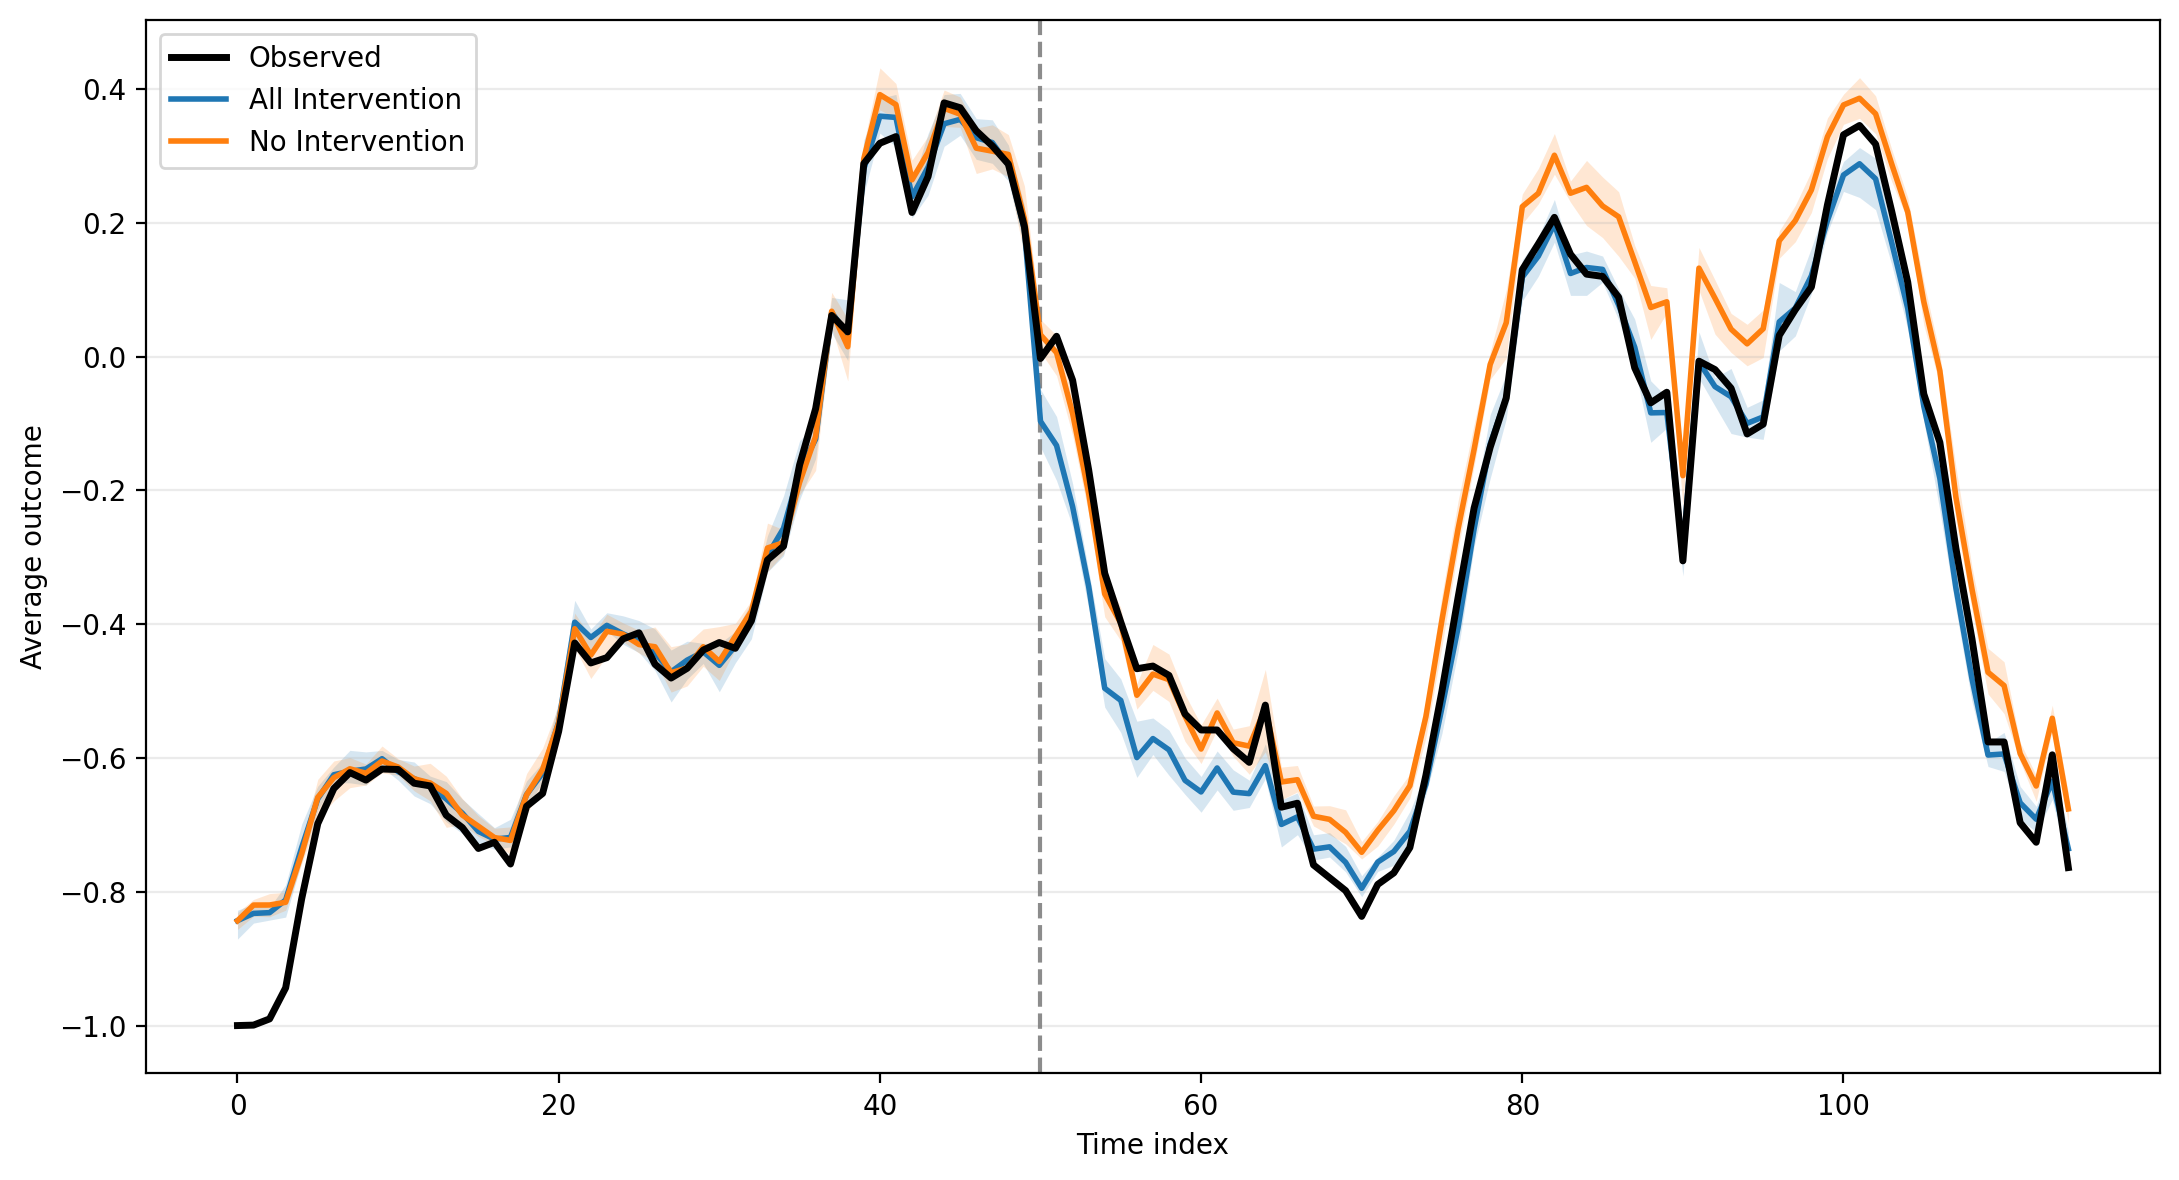
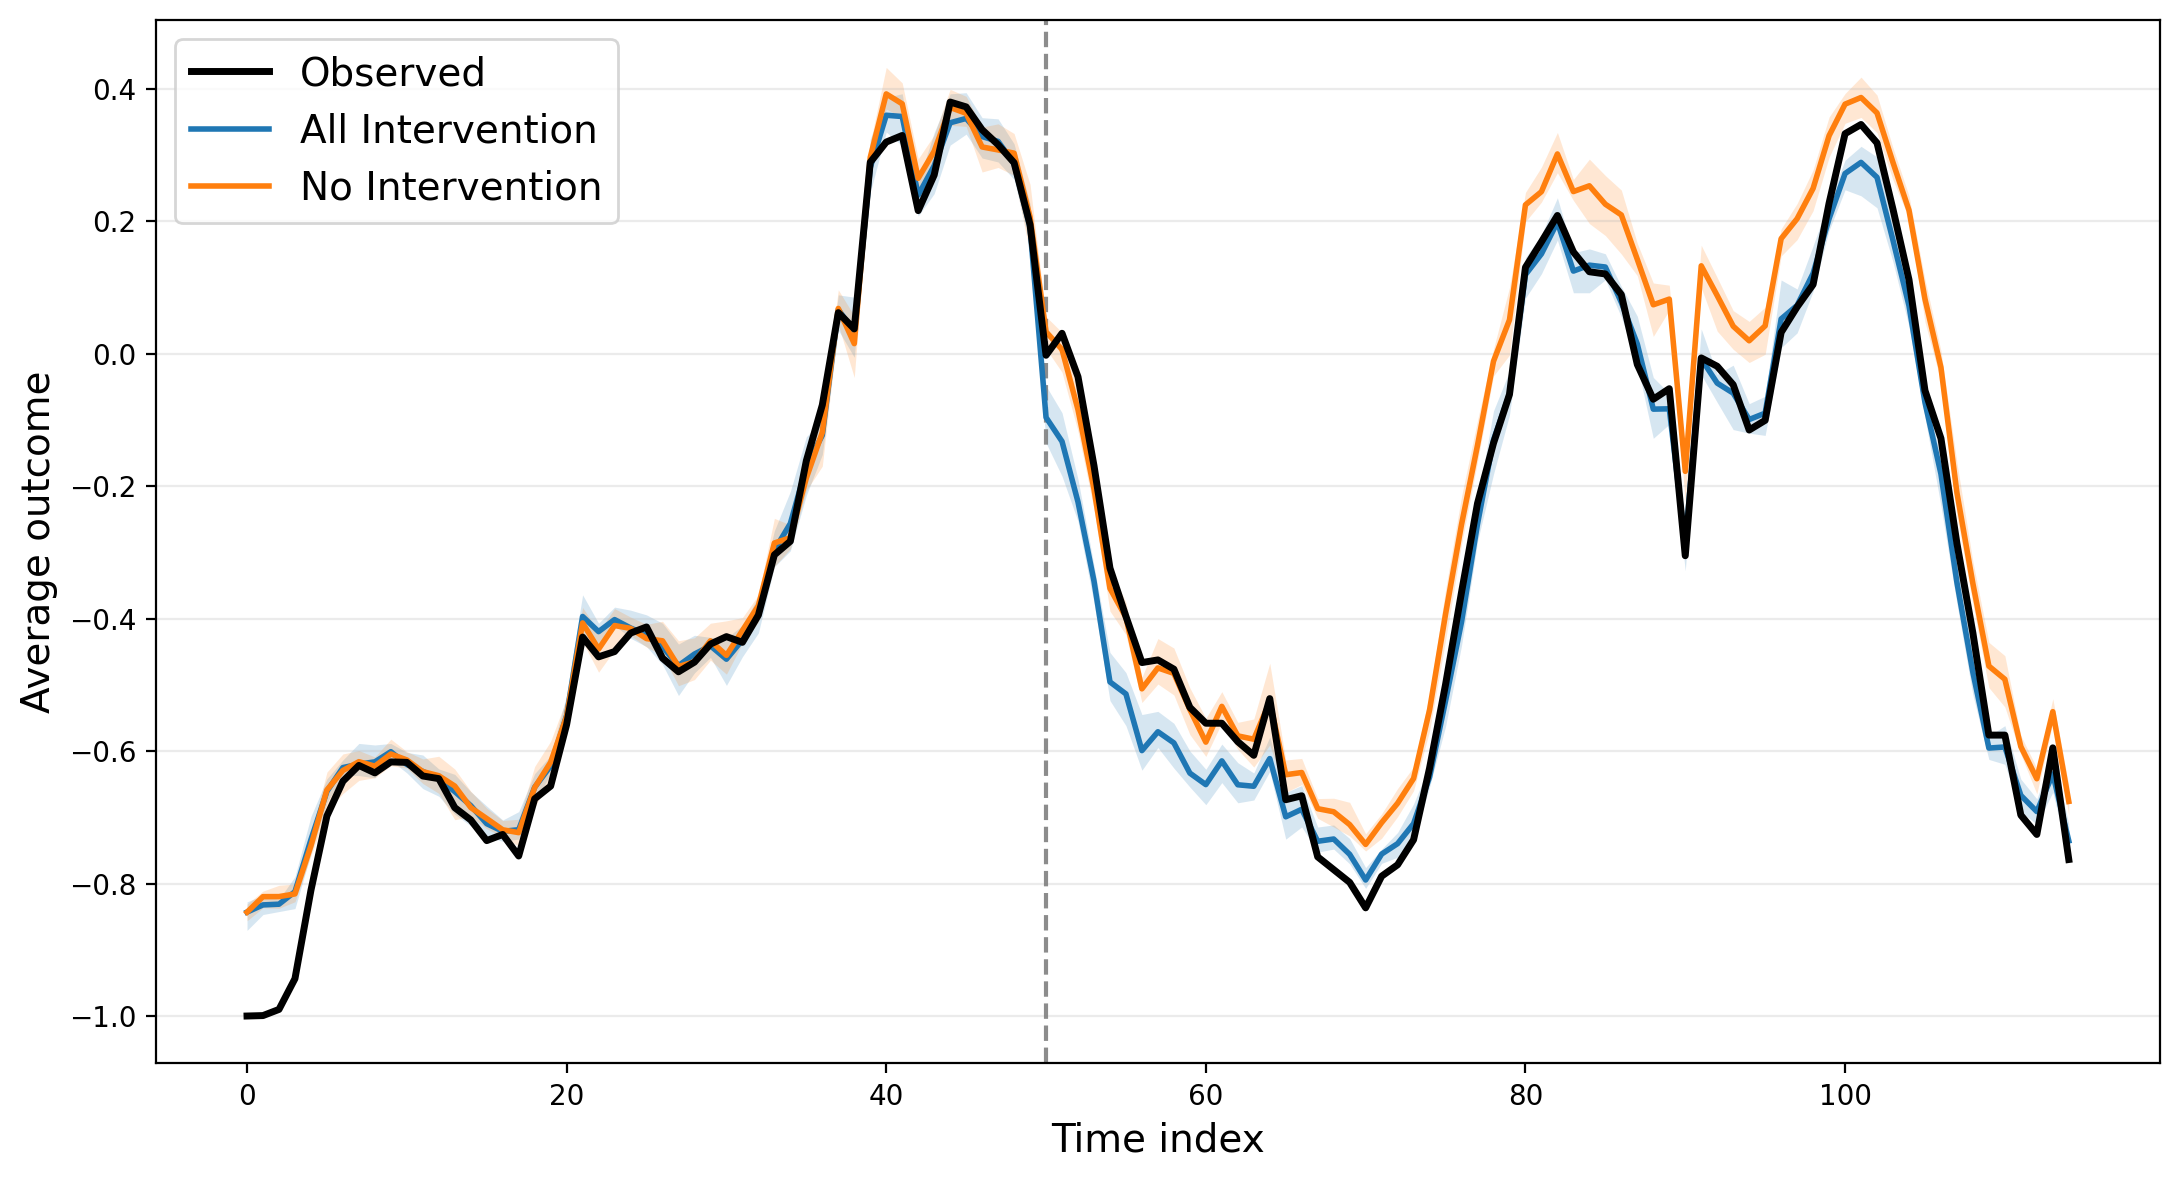
Larger fonts in ploits

diff --git a/utils/t8_posterior_predictive_plotting.py b/utils/t8_posterior_predictive_plotting.py
@@ -31,6 +31,7 @@ _ALL_INTERVENTION_COLOR = "#1f77b4"
 _NO_INTERVENTION_COLOR = "#ff7f0e"
 _FALLBACK_COLORS = list(plt.get_cmap("tab10").colors)
 _LEGEND_FONT_SIZE = 14
+_AXIS_LABEL_FONT_SIZE = 14
 
 
 def _summary_rows(csv_path: str | Path, *, kind: str) -> list[dict[str, str]]:
@@ -187,8 +188,8 @@ def _finalize_axis(
             linewidth=1.5,
             alpha=0.9,
         )
-    ax.set_xlabel(x_label)
-    ax.set_ylabel(y_label)
+    ax.set_xlabel(x_label, fontsize=_AXIS_LABEL_FONT_SIZE)
+    ax.set_ylabel(y_label, fontsize=_AXIS_LABEL_FONT_SIZE)
     ax.set_title("")
     ax.grid(axis="y", alpha=0.25)
     ax.legend(loc="best", fontsize=_LEGEND_FONT_SIZE)
